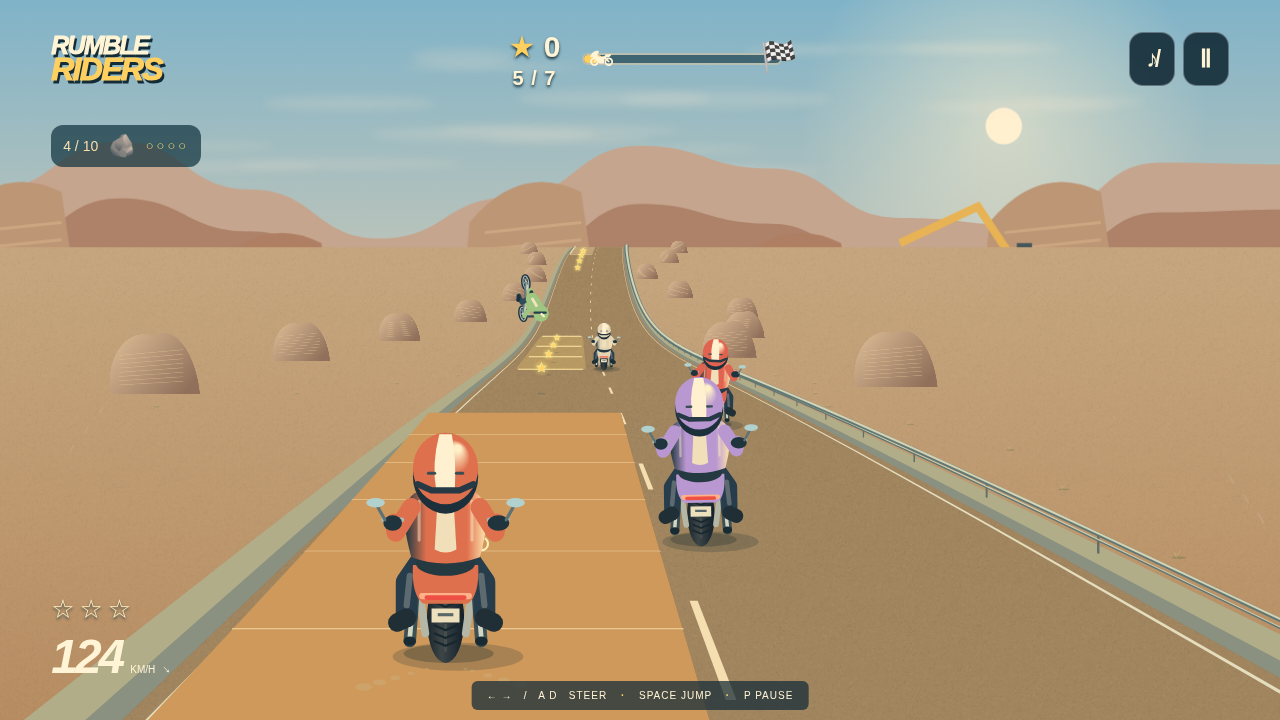
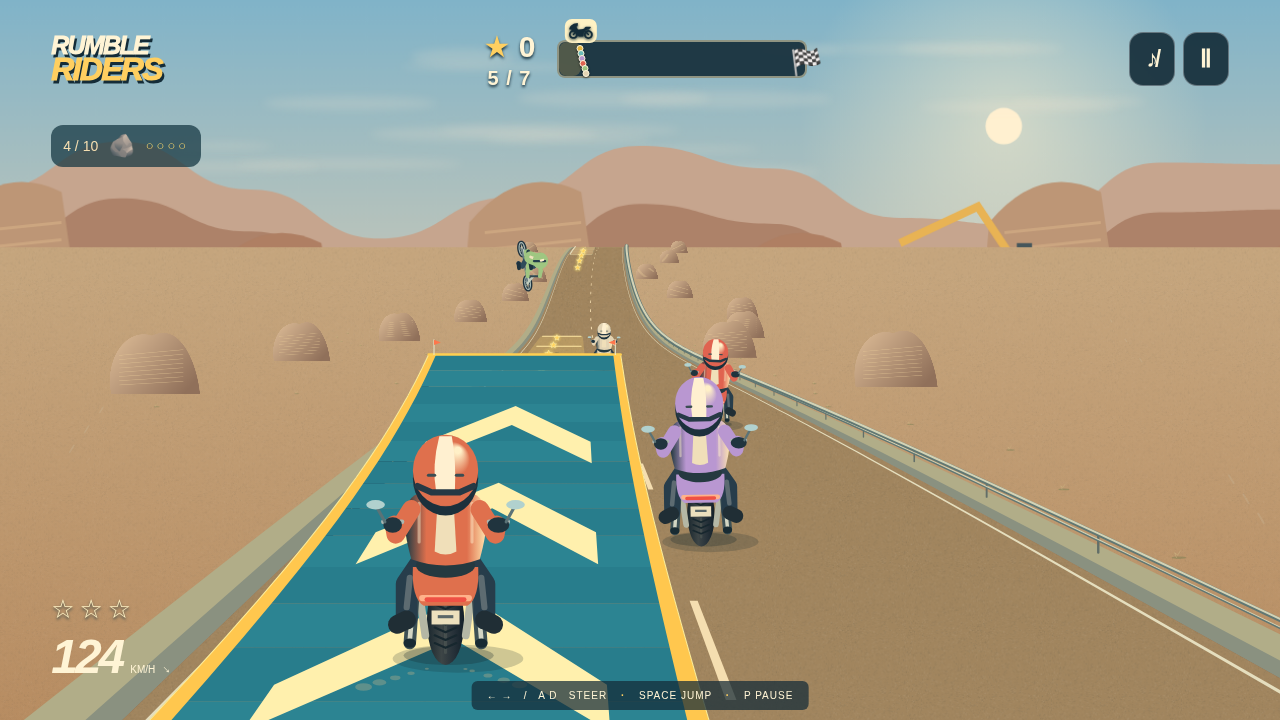
Improve Rumble Riders ramps, race balance and world-map navigation

Changed region(s): [[0.0938, 0.4889, 0.5625, 1.0], [0.375, 0.0306, 0.6562, 0.1222], [0.4062, 0.3361, 0.4375, 0.4583]]

diff --git a/public/games/rumble-riders/game.js b/public/games/rumble-riders/game.js
@@ -85,7 +85,7 @@ function stuntBike(x,y,s,color,pitch){
  ctx.restore();
 }
 function rampRise(distance,x){
- let rise=0;for(const r of rampList){if(Math.abs(x-r.x)>.45)continue;const spec=RumbleRiding.ramps[r.style||'simple'];const t=(distance-(r.distance-spec.length))/spec.length;if(t>=0&&t<=1)rise=Math.max(rise,spec.rise*t*t)}return rise*4.9;
+ let rise=0;for(const r of rampList){if(Math.abs(x-r.x)>.45)continue;const spec=RumbleRiding.ramps[r.style||'simple'];const t=(distance-(r.distance-spec.length))/spec.length;if(t>=0&&t<=1)rise=Math.max(rise,RumbleRiding.rampHeight(r.style,t))}return rise*4.9;
 }
 function startRamp(r){
  const launch=RumbleRiding.launch(r.style||'simple',speed);jumpMode=r.style==='flip'?'flip':'ramp';jumpY=launch.height;jumpV=launch.velocity+groundRate();jumpAge=0;flightDuration=launch.duration;flipAngle=0;boost=Math.max(boost,1.5);show(r.style==='flip'?'⤾':'⤴');sound(440,.15);sound(880,.18,.1);
@@ -133,14 +133,35 @@ function drawFeature(o,p){
  }
  if(o.type==='ramp'){
   const spec=RumbleRiding.ramps[o.style||'simple'],half=.45;
-  for(let i=7;i>=0;i--){const t0=i/8,t1=(i+1)/8,z0=o.z-spec.length*(1-t0),z1=o.z-spec.length*(1-t1);if(z1<0)continue;
-   const a=project(Math.max(0,z0),o.x-half),b=project(Math.max(0,z0),o.x+half),c=project(z1,o.x+half),d=project(z1,o.x-half);
-   const r0=spec.rise*t0*t0*h*.007*a.s,r1=spec.rise*t1*t1*h*.007*c.s;
-   poly([[b.x,b.y-r0],[c.x,c.y-r1],[c.x,c.y],[b.x,b.y]],'#806b50');
-   poly([[a.x,a.y-r0],[b.x,b.y-r0],[c.x,c.y-r1],[d.x,d.y-r1]],o.style==='flip'?'#ce995b':'#d4b17c');
-   line([[a.x,a.y-r0],[b.x,b.y-r0]],'#f4d8a2',Math.max(.5,2*a.s));
+  // Raised quarter-pipe profile, with visible steel cheeks and a clear takeoff lip.
+  const point=(t,x,ground=false)=>{const z=Math.max(0,o.z-spec.length*(1-t)),q=project(z,x);return [q.x,q.y-(ground?0:RumbleRiding.rampHeight(o.style,t)*h*.007*q.s)]};
+  const start=Math.max(0,1-o.z/spec.length),steps=16;
+  const edge=(x,ground=false)=>Array.from({length:steps+1},(_,i)=>point(start+(1-start)*i/steps,x,ground));
+  for(const side of [-1,1]){
+   const x=o.x+side*half,top=edge(x),base=edge(x,true);
+   poly([...top,...base.reverse()],side<0?'#193f4d':'#102c38');
+   for(let i=3;i<16;i+=3){const t=i/16;if(t<start)continue;line([point(t,x),point(t,x,true)],'#e6a13e',Math.max(1,3*p.s));}
   }
-  const mid=project(Math.max(1,o.z-spec.length*.5),o.x);ctx.fillStyle='#fff1bb';ctx.font=`bold ${Math.max(6,34*mid.s)}px Arial`;ctx.textAlign='center';ctx.fillText(o.style==='flip'?'⤾':'↑',mid.x,mid.y-spec.rise*.25*h*.007*mid.s);ctx.textAlign='start';return;
+  for(let i=steps-1;i>=0;i--){
+   const t0=Math.max(start,i/steps),t1=(i+1)/steps;if(t1<=start)continue;
+   poly([point(t0,o.x-half),point(t0,o.x+half),point(t1,o.x+half),point(t1,o.x-half)],i%2?'#287d8c':'#2c8492');
+  }
+  for(const side of [-1,1]){
+   poly([...edge(o.x+side*half),...edge(o.x+side*(half-.035)).reverse()],'#ffc74e');
+   line(edge(o.x+side*half),'#ffed9a',Math.max(1,2*p.s));
+  }
+  // Large perspective-painted chevrons remain readable from the approach.
+  for(const t of [.22,.46,.70])if(t>start+.03){
+   poly([point(t-.08,o.x-.29),point(t+.04,o.x),point(t-.08,o.x+.29),point(t-.015,o.x+.29),point(t+.105,o.x),point(t-.015,o.x-.29)],'#fff0ad');
+  }
+  const lip=point(1,o.x),lipL=point(1,o.x-half),lipR=point(1,o.x+half);
+  line([lipL,lipR],'#ffcf51',Math.max(2,7*p.s));
+  for(const side of [-1,1]){
+   const q=point(1,o.x+side*(half-.025)),pole=43*p.s;
+   line([q,[q[0],q[1]-pole]],'#e9e9cc',Math.max(1,3*p.s));
+   poly([[q[0],q[1]-pole],[q[0]-side*20*p.s,q[1]-pole+8*p.s],[q[0],q[1]-pole+15*p.s]],'#ff764b');
+  }
+  return;
  }
  if(o.type==='tunnel'){
   const half=roadWidth*1.07,top=p.y-380*unit*Math.max(1,h/700);
@@ -165,7 +186,10 @@ function drawFeature(o,p){
 function draw(){
 updateOcclusion();const theme=scenery.theme;
 ctx.save();if(!reducedMotion&&state==='race'){ctx.translate(w/2,h/2);ctx.rotate(-lean*.009-RumbleRiding.bank(circuit,position)*.002);ctx.scale(1.015,1.015);ctx.translate(-w/2,-h/2);}
-ctx.drawImage(scenery.background,0,0);
+// Follow the rider gently at the top of a high jump; keep the sky filled.
+const airCamera=reducedMotion?0:Math.max(0,jumpY-180)*Math.min(h/700,1.3)*.62;
+ctx.translate(0,airCamera);
+ctx.drawImage(scenery.background,0,-airCamera,w,h+airCamera);
 // The verges and asphalt are continuous ribbons: no horizontal polygon seams.
 const ground=ctx.createLinearGradient(0,h*.38,0,h);ground.addColorStop(0,theme.ground[0]);ground.addColorStop(1,theme.ground[1]);
 ribbon(depths,-30,theme.water?1.85:30,ground);ctx.globalAlpha=.35;ribbon(depths,-30,theme.water?1.85:30,ctx.createPattern(scenery.grain,'repeat'));ctx.globalAlpha=1;
@@ -256,9 +280,14 @@ let circuit=0,resumeCircuit=0,unlocked=1,completed=Array(10).fill(false),medals=
 const palette=['#df704d','#45b9be','#a98bdb','#e5b73d'];
 let state='intro',countdown=0,stars=0,jumpY=0,jumpV=0,jumpAge=0,slow=0,boost=0,flash=0,toast='',bank=0,colour=0,features=[],collected=0,speed=0,rush=0,chain=0,engine=null,engineGain=null,raceTime=0,place=7,passes=0,flightDuration=1,flipAngle=0,landingAge=10,landingForce=0,splash=0,rampList=[],previousGrade=0,jumpMode='none';
 const reducedMotion=matchMedia("(prefers-reduced-motion: reduce)").matches;
-let audio=null,muted=false,padJump=false,padPause=false,padDirection=0,padMenuDirection=0;
+let audio=null,muted=false,padJump=false,padDirection=0,padMenuDirection=0;
 try{const save=JSON.parse(localStorage.getItem('rumble-star-sprint')||'{}');bank=Math.max(0,Math.min(100000,Number(save.bank)||0));colour=Math.max(0,Math.min(3,Math.floor(Number(save.colour))||0));if(colour>Math.floor(bank/8))colour=0;unlocked=Math.max(1,Math.min(10,Math.floor(Number(save.unlocked)||1)));circuit=Math.max(0,Math.min(unlocked-1,Math.floor(Number(save.circuit)||0)));resumeCircuit=circuit;completed=Array.from({length:10},(_,i)=>save.completed?.[i]===true);medals=Array.from({length:10},(_,i)=>save.medals?.[i]===true);finishDistance=circuits[circuit].length}catch{}
 const ui={stars:document.querySelector('#stars'),speed:document.querySelector('#speed'),progress:document.querySelector('#progress'),rider:document.querySelector('#rider-progress'),message:document.querySelector('#message'),intro:document.querySelector('#intro'),finish:document.querySelector('#finish'),pause:document.querySelector('#pause')};
+const rivalMarkers=rivals.map((r,i)=>{const el=document.createElement('div');el.className='rival-marker';el.style.background=r.c;el.style.top=`${3+i*5}px`;el.setAttribute('role','img');ui.progress.parentElement.append(el);return el});
+function updateRaceMap(){
+ const progress=Math.min(100,position/finishDistance*100);ui.progress.style.width=`${progress}%`;ui.rider.style.left=`${progress}%`;
+ rivals.forEach((r,i)=>{const percentage=Math.max(0,Math.min(100,r.distance/finishDistance*100));const left=`${percentage.toFixed(1)}%`,label=`Racer ${i+1}: ${Math.round(percentage)}% of circuit`;if(rivalMarkers[i].style.left!==left)rivalMarkers[i].style.left=left;if(rivalMarkers[i].getAttribute('aria-label')!==label)rivalMarkers[i].setAttribute('aria-label',label)});
+}
 function sound(freq,duration=.1,delay=0,type='sine'){
  if(!audio||muted)return;const t=audio.currentTime+delay,osc=audio.createOscillator(),gain=audio.createGain();osc.type=type;osc.frequency.setValueAtTime(freq,t);gain.gain.setValueAtTime(.0001,t);gain.gain.exponentialRampToValueAtTime(.07,t+.015);gain.gain.exponentialRampToValueAtTime(.0001,t+duration);osc.connect(gain);gain.connect(audio.destination);osc.start(t);osc.stop(t+duration+.02);
 }
@@ -290,7 +319,10 @@ function award(kind){
 }
 function refreshTour(){
  const picker=document.querySelector('#circuit-picker');picker.replaceChildren();
- circuits.forEach((c,i)=>{const b=document.createElement('button');b.disabled=i>=unlocked;b.setAttribute('aria-label',`${i+1}. ${c.name}${completed[i]?' completed':''}`);b.setAttribute('aria-pressed',String(i===circuit));b.title=c.name;
+ const stops=[[55,65],[150,85],[250,55],[350,85],[445,65],[445,205],[350,180],[250,210],[150,180],[55,205]];
+ const route=stops.map(p=>p.join(',')).join(' ');
+ picker.insertAdjacentHTML('beforeend',`<svg viewBox="0 0 500 270" aria-hidden="true"><rect width="500" height="270" rx="24" fill="#75b9c2"/><path d="M15 45Q70 5 145 30T275 22T475 37L487 209Q453 258 369 237T235 246T35 244Q5 217 25 167T15 45" fill="#e3cf94"/><path d="M30 53Q90 20 155 45T280 40T460 50L470 202Q422 236 355 219T240 229T45 227Q22 207 42 164T30 53" fill="#88a979"/><path d="M190 0Q170 95 220 135T280 270" fill="none" stroke="#75b9c2" stroke-width="22"/><path d="M310 105l27-50 28 50zM365 145l28-48 25 48z" fill="#668b71"/><path d="M55 112l15-30 15 30zM85 137l15-30 15 30zM315 245l15-30 15 30z" fill="#3e7763"/><polyline points="${route}" fill="none" stroke="#5d725f" stroke-width="12" stroke-linecap="round" stroke-linejoin="round"/><polyline points="${route}" fill="none" stroke="#fff1bb" stroke-width="3" stroke-dasharray="5 8" stroke-linecap="round"/></svg>`);
+ circuits.forEach((c,i)=>{const b=document.createElement('button');b.disabled=i>=unlocked;b.setAttribute('aria-label',`${i+1}. ${c.name}${completed[i]?' completed':''}`);b.setAttribute('aria-pressed',String(i===circuit));b.title=c.name;b.style.left=`${stops[i][0]/5}%`;b.style.top=`${stops[i][1]/2.7}%`;
   b.innerHTML=`${b.disabled?'🔒':c.icon}<small>${i+1}</small>`;b.classList.toggle('complete',completed[i]);b.onclick=()=>selectCircuit(i);picker.append(b)
  });
  document.querySelector('#challenge-demo').textContent=circuits[circuit].demo;
@@ -300,13 +332,17 @@ function selectCircuit(index){
  if(index<0||index>=unlocked)return;
  circuit=index;resumeCircuit=index;scenery.configure(circuit,w,h);finishDistance=circuits[index].length;challenge=0;draft=0;position=0;time=0;speed=0;rush=0;jumpY=0;jumpV=0;playerX=-.25;lean=0;features=buildCourse();stars=0;place=7;ui.stars.textContent='0';ui.speed.textContent='0';ui.progress.style.width='0%';ui.rider.style.left='0%';document.querySelector('#place').textContent='7 / 7';rivals.splice(0,rivals.length,...makeRacers());save();refreshTour();draw();
 }
+function navigateMap(dx,dy){
+ const row=circuit<5?0:1,col=circuit<5?circuit:9-circuit;
+ const nextRow=Math.max(0,Math.min(1,row+dy)),nextCol=Math.max(0,Math.min(4,col+dx));
+ selectCircuit(nextRow===0?nextCol:9-nextCol);
+}
 function openTour(){
  state='intro';paused=false;keys.clear();document.querySelectorAll('.confetti').forEach(n=>n.remove());ui.finish.hidden=true;ui.intro.hidden=false;ui.message.textContent='';document.querySelector('main').classList.remove('boosting');engineSound();selectCircuit(circuit);
 }
 function nextCircuit(){
  if(state!=='finish')return;
- if(circuit===9){openTour();return}
- circuit++;scenery.configure(circuit,w,h);resumeCircuit=circuit;finishDistance=circuits[circuit].length;refreshTour();reset();
+ circuit=Math.min(9,circuit+1);openTour();document.querySelector('#play').focus({preventScroll:true});
 }
 function primaryAction(){if(state==='finish')nextCircuit();else reset()}
 
@@ -324,7 +360,7 @@ function finish(){
  document.querySelector('#bank').textContent=String(bank);document.querySelector('#jar-fill').style.width=`${Math.min(bank/24,1)*100}%`;chooseColours();
  document.querySelector('#clear-badge').textContent=circuit===9&&completed.every(Boolean)?'🏆 10 / 10 🏆':`${circuits[circuit].icon} ✓`;
  const stamps=document.querySelector('#tour-stamps');stamps.replaceChildren();circuits.forEach((c,i)=>{const stamp=document.createElement('span');stamp.textContent=medals[i]?'🏅':c.icon;stamp.className=(completed[i]?'earned ':'')+(i===circuit?'new':'');stamp.setAttribute('aria-label',`${c.name}: ${completed[i]?'complete':'not complete'}`);stamps.append(stamp)});
- document.querySelector('#next').textContent=circuit===9?'▦':'▶';document.querySelector('#next').setAttribute('aria-label',circuit===9?'View completed tour':'Next circuit');
+ document.querySelector('#next').textContent='Ⓐ 🗺';document.querySelector('#next').setAttribute('aria-label','Continue to the world map');document.querySelector('#finish .trophy').textContent=place===1?'🏆':'🏅';
  [523,659,784,1046,1318,1568].forEach((f,i)=>sound(f,.3,i*.14));
  for(let i=0;i<(circuit===9?80:48);i++){const el=document.createElement('i');el.className='confetti';el.style.left=`${(i*37)%100}%`;el.style.background=['#ffd16b','#f48a63','#7dd7cf','#c3a2f0'][i%4];el.style.animationDelay=`${i%8*.1}s`;el.style.setProperty('--drift',`${(i%7-3)*25}px`);document.querySelector('main').append(el);el.addEventListener('animationend',()=>el.remove())}
  document.querySelector('#next').focus({preventScroll:true});
@@ -335,26 +371,36 @@ function toggle(){if(state!=='race'&&state!=='countdown')return;paused=!paused;k
 function inputDown(code){if(keys.has(code))return;keys.add(code);if(code==='Space')jump()}
 function inputUp(code){keys.delete(code)}
 addEventListener('keydown',e=>{
- if(!['ArrowLeft','ArrowRight','Space','KeyA','KeyD','KeyP','Escape','Enter'].includes(e.code))return;
+ if(!['ArrowLeft','ArrowRight','ArrowUp','ArrowDown','Space','KeyA','KeyD','KeyM','KeyP','Escape','Enter'].includes(e.code))return;
  // Native buttons retain Enter; Space starts the picture-based intro/replay.
  if(e.code==='Enter'){if((state==='intro'||state==='finish')&&!e.repeat){e.preventDefault();primaryAction()}return}
  e.preventDefault();if(e.repeat)return;
  if(e.code==='Space'&&(state==='intro'||state==='finish')){primaryAction();return}
- if(state==='intro'&&['ArrowLeft','ArrowRight'].includes(e.code)){selectCircuit(Math.max(0,Math.min(unlocked-1,circuit+(e.code==='ArrowRight'?1:-1))));return}
+ if(e.code==='KeyM'){openTour();return}
+ if(state==='intro'&&e.code.startsWith('Arrow')){navigateMap(e.code==='ArrowLeft'?-1:e.code==='ArrowRight'?1:0,e.code==='ArrowUp'?-1:e.code==='ArrowDown'?1:0);return}
  if(e.code==='KeyP'||e.code==='Escape'){toggle();return}inputDown(e.code);
 });
 addEventListener('keyup',e=>inputUp(e.code));
 addEventListener('blur',()=>{if(!paused)toggle();keys.clear()});
 document.addEventListener('visibilitychange',()=>{if(document.hidden&&!paused)toggle()});
-ui.pause.onclick=toggle;document.querySelector('#play').onclick=reset;document.querySelector('#again').onclick=reset;document.querySelector('#next').onclick=nextCircuit;document.querySelector('#tour-map').onclick=openTour;
+document.querySelector('#map').onclick=openTour;ui.pause.onclick=toggle;document.querySelector('#play').onclick=reset;document.querySelector('#again').onclick=reset;document.querySelector('#next').onclick=nextCircuit;document.querySelector('#tour-map').onclick=openTour;
 document.querySelector('#sound').onclick=()=>{enableSound();muted=!muted;document.querySelector('#sound').textContent=muted?'♪̸':'♫';document.querySelector('#sound').setAttribute('aria-label',muted?'Enable sound':'Mute sound')};
 document.querySelectorAll('[data-key]').forEach(b=>{b.onpointerdown=e=>{e.preventDefault();b.setPointerCapture(e.pointerId);inputDown(b.dataset.key)};b.onpointerup=b.onpointercancel=b.onlostpointercapture=()=>inputUp(b.dataset.key)});
 function pollPad(){
- const pad=Array.from(navigator.getGamepads?.()||[]).find(p=>p?.connected);if(!pad){padDirection=0;if(padJump)inputUp('Space');padJump=false;padPause=false;return}
- const a=!!pad.buttons[0]?.pressed,start=!!pad.buttons[9]?.pressed;
- padDirection=pad.buttons[14]?.pressed?-1:pad.buttons[15]?.pressed?1:Math.abs(pad.axes[0]||0)>.2?pad.axes[0]:0;
- const menuDirection=padDirection>.5?1:padDirection<-.5?-1:0;if(state==='intro'&&menuDirection&&menuDirection!==padMenuDirection)selectCircuit(Math.max(0,Math.min(unlocked-1,circuit+menuDirection)));padMenuDirection=menuDirection;
- if(a&&!padJump){if(state==='intro'||state==='finish')primaryAction();else inputDown('Space')}if(!a&&padJump)inputUp('Space');if(start&&!padPause)toggle();padJump=a;padPause=start;
+ const pad=GamepadStd.readActive('rumble-riders');
+ if(!pad){padDirection=0;padMenuDirection=0;if(padJump)inputUp('Space');padJump=false;return}
+ if(pad.just.B){save();GamepadStd.exitToArcade();return}
+ padDirection=pad.left?-1:pad.right?1:pad.ax;
+ if(pad.just.X){openTour();return}
+ if(state==='intro'){
+  const nav=GamepadStd.navRepeat(pad,'rumble-map');
+  if(nav.left||nav.right||nav.up||nav.down)navigateMap(nav.left?-1:nav.right?1:0,nav.up?-1:nav.down?1:0);
+ }
+ if(state==='intro'||state==='finish'){
+  if(pad.just.A||pad.just.start)primaryAction();
+ }else if(pad.just.start)toggle();
+ else if(pad.just.A){if(paused)toggle();else inputDown('Space')}
+ if(!pad.A&&padJump)inputUp('Space');padJump=pad.A;
 }
 function update(dt){
  time+=dt;
@@ -365,7 +411,7 @@ function update(dt){
  slow=Math.max(0,slow-dt);boost=Math.max(0,boost-dt);flash=Math.max(0,flash-dt);
  const grade=RumbleWorld.grade(circuit,position)+(RumbleWorld.deck(circuit,position+5,playerX)-RumbleWorld.deck(circuit,position-5,playerX))/10;
  const terrainSpeed=Math.max(-12,Math.min(14,-grade*60));
- const help=place>3&&raceTime>8?6:0;
+ const help=place>4&&raceTime>10?2.5:0;
  const desired=(slow>0?64:boost>0?112:76)+terrainSpeed+help;
  if(previousGrade>0&&grade<=0&&speed>70&&jumpY===0&&RumbleWorld.environments[circuit].hill>=25){jumpMode='crest';jumpY=1;jumpV=125;jumpAge=.4;sound(280,.06)}previousGrade=grade;
  document.querySelector('#slope').textContent=grade>.055?'↗':grade<-.055?'↘':'';
@@ -399,8 +445,8 @@ function update(dt){
  // Rivals travel their own distance; boosts and clean riding change the actual gaps.
  rivals.forEach((r,i)=>{
   const priorGap=r.z-4,gap=r.distance-position;
-  const catchup=Math.max(-10,Math.min(4,-gap*.025));
-  const aiSpeed=67+i*.6+Math.sin(raceTime*.55+i*1.4)*3+catchup+Math.max(-12,Math.min(14,-RumbleWorld.grade(circuit,r.distance)*60));
+  const catchup=Math.max(-1.5,Math.min(2,-gap*.012));
+  const aiSpeed=74.5+i*1.4+circuit*.18+(circuit===4?2:0)+Math.sin(raceTime*.55+i*1.4)*3+catchup+Math.max(-12,Math.min(14,-RumbleWorld.grade(circuit,r.distance)*60));
   const localGrade=RumbleWorld.grade(circuit,r.distance)+(RumbleWorld.deck(circuit,r.distance+5,r.x)-RumbleWorld.deck(circuit,r.distance-5,r.x))/10;if(r.grade>0&&localGrade<=0&&RumbleWorld.environments[circuit].hill>=25){r.airY=1;r.airV=125}r.grade=localGrade;if(r.airY>0){r.airAge+=dt;const flight=RumbleRiding.step(r.airY,r.airV,dt);r.airY=flight.height;r.airV=flight.velocity;if(flight.landed)r.flip=false}
   const previous=r.distance;r.distance+=aiSpeed*dt;for(const f of features){if(['ramp','roller'].includes(f.type)&&f.distance>previous&&f.distance<=r.distance&&Math.abs(f.x-r.x)<.4&&r.airY===0){const launch=RumbleRiding.launch(f.style||'simple',aiSpeed);r.airY=f.type==='ramp'?launch.height:1;r.airV=f.type==='ramp'?launch.velocity:165;r.airAge=0;r.airDuration=launch.duration;r.flip=f.style==='flip'}}r.z=r.distance-position+4;if(priorGap>0&&r.z<=4&&!passedRacers.has(i)){passedRacers.add(i);award('pass')}
   if(r.finishedAt===null&&r.distance>=finishDistance)r.finishedAt=raceTime-dt+(finishDistance-previous)/aiSpeed;
@@ -423,11 +469,11 @@ function update(dt){
  document.querySelector('#turbo').classList.toggle('active',boost>0);
  document.querySelector('main').classList.toggle('boosting',boost>0);
  ui.stars.textContent=String(stars);ui.speed.textContent=String(Math.round(speed*1.45));ui.message.textContent=flash>0?toast:'';
- const progress=Math.min(100,position/finishDistance*100);ui.progress.style.width=`${progress}%`;ui.rider.style.left=`${progress}%`;
+ updateRaceMap();
  if(position>=finishDistance)finish();
 }
 // Read-only state for browser QA; gameplay uses normal keyboard, touch and gamepad input.
 Object.defineProperty(window,'rumbleState',{get:()=>({state,paused,position,playerX,stars,jumpY,jumpV,jumpMode,flipAngle,flightDuration,landingAge,splash,slow,boost,bank,colour,finishDistance,circuit,unlocked,completed:[...completed],medals:[...medals],challenge,challengeTarget:circuits[circuit].target,challengeKind:circuits[circuit].kind,terrain:{elevation:RumbleWorld.height(circuit,position),grade:RumbleWorld.grade(circuit,position),deck:RumbleWorld.deck(circuit,position,playerX),environment:scenery.theme.prop,bank:RumbleRiding.bank(circuit,position),surface:RumbleRiding.surface(circuit,position)},draft,speed,chain,place,passes,raceTime,racers:rivals.map(r=>({z:r.z,x:r.x,c:r.c,distance:r.distance,airY:r.airY})),remaining:features.filter(f=>f.type==='star'&&!f.done).length})});
 function frame(now){const dt=Math.min((now-last)/1000,.04);last=now;pollPad();engineSound();if(!paused&&!document.hidden){update(dt);if(state!=='finish')draw()}requestAnimationFrame(frame)}
-scenery.configure(circuit,w,h);features=buildCourse();refreshTour();draw();requestAnimationFrame(frame);
+scenery.configure(circuit,w,h);features=buildCourse();refreshTour();updateRaceMap();draw();requestAnimationFrame(frame);
 })();

diff --git a/public/games/rumble-riders/index.html b/public/games/rumble-riders/index.html
@@ -1,10 +1,10 @@
 <!doctype html>
-<html lang="en"><head><meta charset="utf-8"><meta name="viewport" content="width=device-width,initial-scale=1"><title>Rumble Riders · Star Sprint</title><link rel="icon" href="data:,"><link rel="stylesheet" href="styles.css?v=8"></head>
+<html lang="en"><head><meta charset="utf-8"><meta name="viewport" content="width=device-width,initial-scale=1"><title>Rumble Riders · Star Sprint</title><link rel="icon" href="data:,"><link rel="stylesheet" href="styles.css?v=14"></head>
 <body><main><canvas id="road" aria-label="Coastal bike race: steer, collect stars and jump"></canvas>
-<header><div class="brand">RUMBLE<span>RIDERS</span></div><div class="race-hud"><div class="stars" aria-label="Stars collected">★ <strong id="stars">0</strong><small id="place" aria-label="Race position">7 / 7</small></div><div class="progress" aria-label="Distance to finish"><span id="progress"></span><b>🏁</b><i id="rider-progress">🏍</i></div></div><div class="menu-buttons"><button id="sound" aria-label="Mute sound">♫</button><button id="pause" aria-label="Pause race">Ⅱ</button></div></header>
+<header><div class="brand">RUMBLE<span>RIDERS</span></div><div class="race-hud"><div class="stars" aria-label="Stars collected">★ <strong id="stars">0</strong><small id="place" aria-label="Race position">7 / 7</small></div><div class="progress" aria-label="Track positions of your bike and all six rivals"><span id="progress"></span><b>🏁</b><i id="rider-progress">🏍</i></div></div><div class="menu-buttons"><button id="map" aria-label="X: Choose a level on the world map">🗺</button><button id="sound" aria-label="Mute sound">♫</button><button id="pause" aria-label="Pause race">Ⅱ</button></div></header>
 <div id="message" role="status"></div><div id="challenge-hud" aria-label="Circuit challenge"><span id="circuit-label"></span><span id="challenge-icon"></span><span id="challenge-dots"></span><div id="draft-meter"><i></i></div></div>
 <footer><div class="speed"><div id="turbo" aria-label="Collect three stars for turbo">☆☆☆</div><strong id="speed">0</strong><span>KM/H</span><span id="slope" aria-label="Road slope"></span></div><p>← → &nbsp; / &nbsp; A D &nbsp; STEER <b>·</b> SPACE JUMP <b>·</b> P PAUSE</p></footer>
 <div class="touch"><button data-key="ArrowLeft" aria-label="Steer left">◀</button><button data-key="ArrowRight" aria-label="Steer right">▶</button><button data-key="Space" aria-label="Jump">⤴</button></div>
-<section id="intro" class="overlay" aria-label="How to play"><div class="panel"><div id="circuit-picker" class="circuit-picker" aria-label="Choose circuit"></div><div id="challenge-demo" class="challenge-demo"></div><div class="picture-goal">🏍 <span>★ ★ ★</span> 🏁</div><div class="turbo-lesson">★ ★ ★ → ⚡</div><div class="lessons"><div><div class="demo steer">🏍</div><div class="key-icons">◀ &nbsp; ▶</div></div><div><div class="demo hop">🏍</div><div class="little-puddle"></div><div class="key-icons">⤴ <kbd>SPACE</kbd> / Ⓐ</div></div></div><button id="play" class="primary" aria-label="Start race">▶</button><a class="home" href="/" aria-label="Back to arcade">⌂</a></div></section>
-<section id="finish" class="overlay" hidden aria-label="Race complete"><div class="panel"><div id="tour-stamps" class="tour-stamps"></div><div class="trophy">🏆</div><div id="clear-badge" class="clear-badge"></div><div id="finish-place" class="finish-place"></div><div id="result-stars" class="result-stars"></div><div class="jar" aria-label="Collected stars toward bike colours"><span>★</span><strong id="bank">0</strong><div class="jar-track"><i id="jar-fill"></i></div></div><div id="colours" class="colours" aria-label="Choose a bike colour"></div><div class="finish-actions"><button id="again" aria-label="Replay this circuit">↻</button><button id="next" class="primary" aria-label="Next circuit">▶</button><button id="tour-map" aria-label="Choose a circuit">▦</button></div><a class="home" href="/" aria-label="Back to arcade">⌂</a></div></section>
-</main><script src="environments.js?v=8"></script><script src="scenery.js?v=8"></script><script src="world-art.js?v=8"></script><script src="circuits.js?v=8"></script><script src="riding.js?v=8"></script><script src="game.js?v=8"></script></body></html>
+<section id="intro" class="overlay" aria-label="How to play"><div class="panel"><div id="circuit-picker" class="circuit-picker" aria-label="World map: choose a circuit"></div><div class="map-controls" aria-label="Use all four directions to choose a level, A to play">✥ &nbsp; 🏍 &nbsp; Ⓐ ▶</div><div id="challenge-demo" class="challenge-demo"></div><div class="picture-goal">🏍 <span>★ ★ ★</span> 🏁</div><div class="turbo-lesson">★ ★ ★ → ⚡</div><div class="lessons"><div><div class="demo steer">🏍</div><div class="key-icons">◀ &nbsp; ▶</div></div><div><div class="demo hop">🏍</div><div class="little-puddle"></div><div class="key-icons">⤴ <kbd>SPACE</kbd> / Ⓐ</div></div></div><button id="play" class="primary" aria-label="Start race with A or Start">Ⓐ ▶</button><a class="home" href="/" aria-label="B: Back to arcade">Ⓑ ⌂</a></div></section>
+<section id="finish" class="overlay" hidden aria-label="Race complete"><div class="panel"><div id="tour-stamps" class="tour-stamps"></div><div class="trophy">🏆</div><div id="clear-badge" class="clear-badge"></div><div id="finish-place" class="finish-place"></div><div id="result-stars" class="result-stars"></div><div class="jar" aria-label="Collected stars toward bike colours"><span>★</span><strong id="bank">0</strong><div class="jar-track"><i id="jar-fill"></i></div></div><div id="colours" class="colours" aria-label="Choose a bike colour"></div><div class="finish-actions"><button id="again" aria-label="Replay this circuit">↻</button><button id="next" class="primary" aria-label="Next circuit">▶</button><button id="tour-map" aria-label="Choose a circuit">▦</button></div><a class="home" href="/" aria-label="B: Back to arcade">Ⓑ ⌂</a></div></section>
+</main><script src="/shared/gamepad-std.js" data-no-exit="1"></script><script src="environments.js?v=8"></script><script src="scenery.js?v=8"></script><script src="world-art.js?v=8"></script><script src="circuits.js?v=8"></script><script src="riding.js?v=12"></script><script src="game.js?v=14"></script></body></html>

diff --git a/public/games/rumble-riders/styles.css b/public/games/rumble-riders/styles.css
@@ -5,3 +5,18 @@
 #turbo{font-size:26px;color:#fff2c4;letter-spacing:5px;margin-bottom:4px;text-shadow:0 2px 3px #193a43}#turbo.active{color:#ffdf64}.boosting .speed strong{color:#ffe17b}.turbo-lesson{color:var(--gold);margin:16px 0 -16px;font-size:20px}.finish-place{font-size:25px;color:var(--gold)}#place{font-size:20px;font-weight:bold}
 
 #challenge-hud{position:absolute;left:4%;top:125px;display:flex;align-items:center;gap:10px;background:#143641bb;border-radius:12px;padding:8px 12px;font-size:22px;pointer-events:none}#circuit-label{font-size:14px;color:#f5deb0}#challenge-dots{font-size:13px;letter-spacing:3px;color:#ffda6b;max-width:160px;line-height:1.6}#draft-meter{display:none;width:50px;height:7px;background:#0d2832;border-radius:9px;overflow:hidden}#draft-meter i{display:block;height:100%;background:#83e1e0;width:0}.circuit-picker{display:grid;grid-template-columns:repeat(5,1fr);gap:7px;margin:0 0 15px}.circuit-picker button{font-size:22px;padding:8px 3px;position:relative;min-height:49px}.circuit-picker small{font-size:10px;display:block;color:#fff4d5}.circuit-picker button:disabled{opacity:.4;cursor:default}.circuit-picker button[aria-pressed=true]{border-color:#ffda6b;background:#6c633d}.circuit-picker .complete:after{content:'✓';position:absolute;right:3px;top:1px;font-size:13px;color:#9de7b1}.challenge-demo{font-size:25px;color:#ffdb6d;margin-bottom:14px}.panel{max-height:94dvh;overflow:auto}.lessons{margin:28px 0 18px}.picture-goal{font-size:30px}.tour-stamps{display:flex;flex-wrap:wrap;justify-content:center;gap:7px;margin-bottom:14px}.tour-stamps span{font-size:19px;opacity:.35}.tour-stamps .earned{opacity:1}.tour-stamps .new{animation:stamp-pop .6s ease-out}.clear-badge{font-size:25px;color:#ffe08b;margin:6px 0}.finish-actions{display:flex;align-items:center;justify-content:center;gap:12px}.finish-actions .primary{font-size:34px;min-width:100px}.finish-actions button:not(.primary){font-size:25px}.jar{font-size:21px;margin:10px auto;padding:8px}.trophy{font-size:57px}.colours{margin:14px 0}.overlay .home{position:static;display:inline-block;margin-top:15px;padding:5px 12px}.result-stars{font-size:23px}.finish-place{font-size:21px}@keyframes stamp-pop{0%{transform:scale(.1) rotate(-25deg)}70%{transform:scale(1.4)}100%{transform:scale(1)}}@media(max-width:650px){#challenge-hud{top:112px;left:16px;font-size:19px;padding:7px 10px}#challenge-dots{max-width:130px;font-size:11px;letter-spacing:2px}.panel{padding:18px 14px}.circuit-picker{gap:5px}.circuit-picker button{padding:6px 2px;min-height:45px}.lessons{margin:25px 0 16px}.picture-goal{font-size:26px}.challenge-demo{font-size:22px}.trophy{font-size:48px}}@media(prefers-reduced-motion:reduce){.tour-stamps .new{animation:none}}
+
+/* Full-field race tracker: each rival has its own row so a close pack stays visible. */
+.progress{width:250px;height:38px;background:#142c38e8;border-color:#fff0c080;border-radius:8px}
+.progress>span{position:absolute;top:0;bottom:0;opacity:.22}
+.progress .rival-marker{position:absolute;width:7px;height:7px;border:1px solid #fff7dc;border-radius:50%;transform:translateX(-50%);box-shadow:0 1px 2px #0008;z-index:2}
+.progress #rider-progress{top:-23px;z-index:4;font-size:24px;text-shadow:0 1px 3px #132e38;background:#fff2c4;color:#142c38;border-radius:7px;line-height:24px;padding:0 3px}
+.progress b{top:5px;z-index:3;font-size:26px}
+@media(max-width:650px){.progress{width:120px;height:38px}.race-hud{gap:24px}.progress #rider-progress{font-size:20px;line-height:21px;top:-21px}.progress b{font-size:21px;top:8px;right:-13px}}
+
+#intro .panel{width:min(620px,94vw);padding:20px 24px}.circuit-picker{display:block;position:relative;width:100%;aspect-ratio:500/270;margin-bottom:18px}.circuit-picker svg{display:block;width:100%;height:100%;border-radius:24px;box-shadow:inset 0 0 0 2px #ffffff70}.circuit-picker button{position:absolute;transform:translate(-50%,-50%);width:52px;height:52px;min-height:0;border-radius:50%;background:#244e55;border:3px solid #e7dfac;font-size:26px;padding:2px;box-shadow:0 5px 0 #304d3a}.circuit-picker button small{position:absolute;bottom:-8px;left:50%;transform:translateX(-50%);border-radius:9px;padding:1px 5px;background:#143641;font-size:10px}.circuit-picker button:disabled{opacity:.8;background:#627d75;border-color:#b5c4a5}.circuit-picker button[aria-pressed=true]{background:#ffe09a;border-color:#fff6c9;box-shadow:0 0 0 5px #f9bd52,0 7px 0 #536844}.circuit-picker .complete:after{background:#235a40;border-radius:50%;padding:1px 3px;right:-5px;top:-5px}#finish .trophy{font-size:86px;animation:trophy-cheer .8s ease-out both;filter:drop-shadow(0 0 20px #ffcf6066)}#finish .finish-place{font-size:30px}#finish .primary{font-size:29px;min-width:140px}.confetti{z-index:6}@keyframes trophy-cheer{0%{transform:scale(.2) rotate(-20deg)}65%{transform:scale(1.22) rotate(7deg)}100%{transform:scale(1) rotate(0)}}@media(max-width:650px){#intro .panel{padding:18px 12px}.circuit-picker button{width:38px;height:38px;font-size:21px;border-width:2px}.circuit-picker button[aria-pressed=true]{box-shadow:0 0 0 3px #f9bd52,0 5px 0 #536844}#finish .trophy{font-size:68px}}@media(prefers-reduced-motion:reduce){#finish .trophy{animation:none}}
+header{z-index:1}.overlay{z-index:5}#intro .picture-goal,#intro .turbo-lesson{display:none}#intro .lessons{margin:12px 0 14px}#intro .demo{font-size:34px;height:42px}#intro .little-puddle{top:38px}#intro .key-icons{font-size:19px;margin-top:5px}#intro .challenge-demo{margin-bottom:8px;font-size:22px}
+
+@media(max-width:650px){#challenge-hud{top:150px}}
+
+.map-controls{font-size:21px;color:#ffe29b;margin:0 0 10px}.menu-buttons #map{font-size:23px}@media(max-width:650px){.menu-buttons #map{font-size:19px;padding:9px}.map-controls{font-size:18px;margin-bottom:6px}}

diff --git a/public/index.html b/public/index.html
@@ -27,7 +27,7 @@
   <a class="tile" href="brick-ninja-quest.html"><span class="emoji">🥷</span><span class="name">Brick Ninja Quest</span><span class="desc">Collect 3 stars and reach the portal, 12 levels</span><span class="tags">🎮 A go · B back</span></a>
   <a class="tile" href="world-flight/index.html"><span class="emoji">🌍</span><span class="name">City Flight · World Tours</span><span class="desc">Berlin, Paris, London, Rome, Venice, Bengaluru and Dubai — seven scenic city tours</span><span class="tags">🎮 A fly · Directions steer · X roll · B pause</span></a>
   <a class="tile" href="rocket-pals.html"><span class="emoji">🚀</span><span class="name">Rocket Pals</span><span class="desc">2-player kart racing, 16 tracks</span><span class="tags">🎮🎮 2 players · A go · B back</span></a>
-  <a class="tile" href="/games/rumble-riders/index.html"><img class="preview" src="/games/rumble-riders/preview.png?v=8" alt="Half-road stunt ramp with a clear passing lane" width="1280" height="720" loading="lazy"><span class="name">Rumble Riders</span><span class="desc">10 worlds · Half-road ramps &amp; stunt jumps</span><span class="tags">🎮 Keyboard or touch · ← → steer · Space / A jump</span></a>
+  <a class="tile" href="/games/rumble-riders/index.html"><img class="preview" src="/games/rumble-riders/preview.png?v=12" alt="Half-road stunt ramp with a clear passing lane" width="1280" height="720" loading="lazy"><span class="name">Rumble Riders</span><span class="desc">10 worlds · Half-road ramps &amp; stunt jumps</span><span class="tags">🎮 Keyboard or touch · ← → steer · Space / A jump</span></a>
   <a class="tile" href="pip-and-the-moonstone.html"><span class="emoji">🌙</span><span class="name">Pip and the Moonstone</span><span class="desc">Space flying, collect and dodge, 6 levels</span><span class="tags">🎮 A go · B back</span></a>
   <a class="tile" href="cheese-chase.html"><span class="emoji">🧀</span><span class="name">Cheese Chase</span><span class="desc">A mouse, some cats, lots of cheese, 8 rooms</span><span class="tags">🎮 A go · B back</span></a>
   <a class="tile" href="orchard-catch.html"><span class="emoji">🍎</span><span class="name">Orchard Catch</span><span class="desc">Catch the falling fruit in your basket</span><span class="tags">🎮 A go · B back</span></a>

diff --git a/public/games/rumble-riders/riding.js b/public/games/rumble-riders/riding.js
@@ -1,7 +1,8 @@
 /* Ballistic flight and course surfaces, independent of rendering. */
 (() => {
  const clamp=(v,a,b)=>Math.max(a,Math.min(b,v));
- const ramps={simple:{length:48,rise:9,velocity:330},flip:{length:72,rise:16,velocity:470}};
+ const ramps={simple:{length:44,rise:34,velocity:410},flip:{length:62,rise:50,velocity:530}};
+ function rampHeight(kind,t){return ramps[kind||'simple'].rise*Math.pow(clamp(t,0,1),2.4)}
  function launch(kind,speed){const r=ramps[kind]||ramps.simple,height=r.rise*4.9,velocity=r.velocity+clamp(speed-76,0,40)*.25;return {height,velocity,duration:(velocity+Math.sqrt(velocity*velocity+1200*height))/600}}
  function step(height,velocity,dt,gravity=600,groundDelta=0){const y=height+velocity*dt-.5*gravity*dt*dt-groundDelta,v=velocity-gravity*dt;return {height:Math.max(0,y),velocity:y<=0?0:v,landed:y<=0,impact:y<=0?Math.max(0,-v):0}}
  function rotation(age,duration,height,velocity){let t=clamp(age/duration,0,1);if(velocity<0&&height<40)t=Math.max(t,1-height/220);return (t*t*(3-2*t))*Math.PI*2}
@@ -9,5 +10,5 @@
  const dirt=[[],[[2600,3550]],[],[[0,6840]],[[4000,4800]],[],[[4600,5400]],[],[[700,2100],[3600,5200]],[[3600,4400]]];
  function bank(index,d){let value=0;for(const [a,b,angle] of banks[index])if(d>a&&d<b)value+=Math.sin(Math.PI*(d-a)/(b-a))**2*angle;return value}
  function surface(index,d){return dirt[index].some(([a,b])=>d>=a&&d<=b)?'dirt':'road'}
- globalThis.RumbleRiding={ramps,launch,step,rotation,bank,surface,dirt};
+ globalThis.RumbleRiding={ramps,rampHeight,launch,step,rotation,bank,surface,dirt};
 })();
